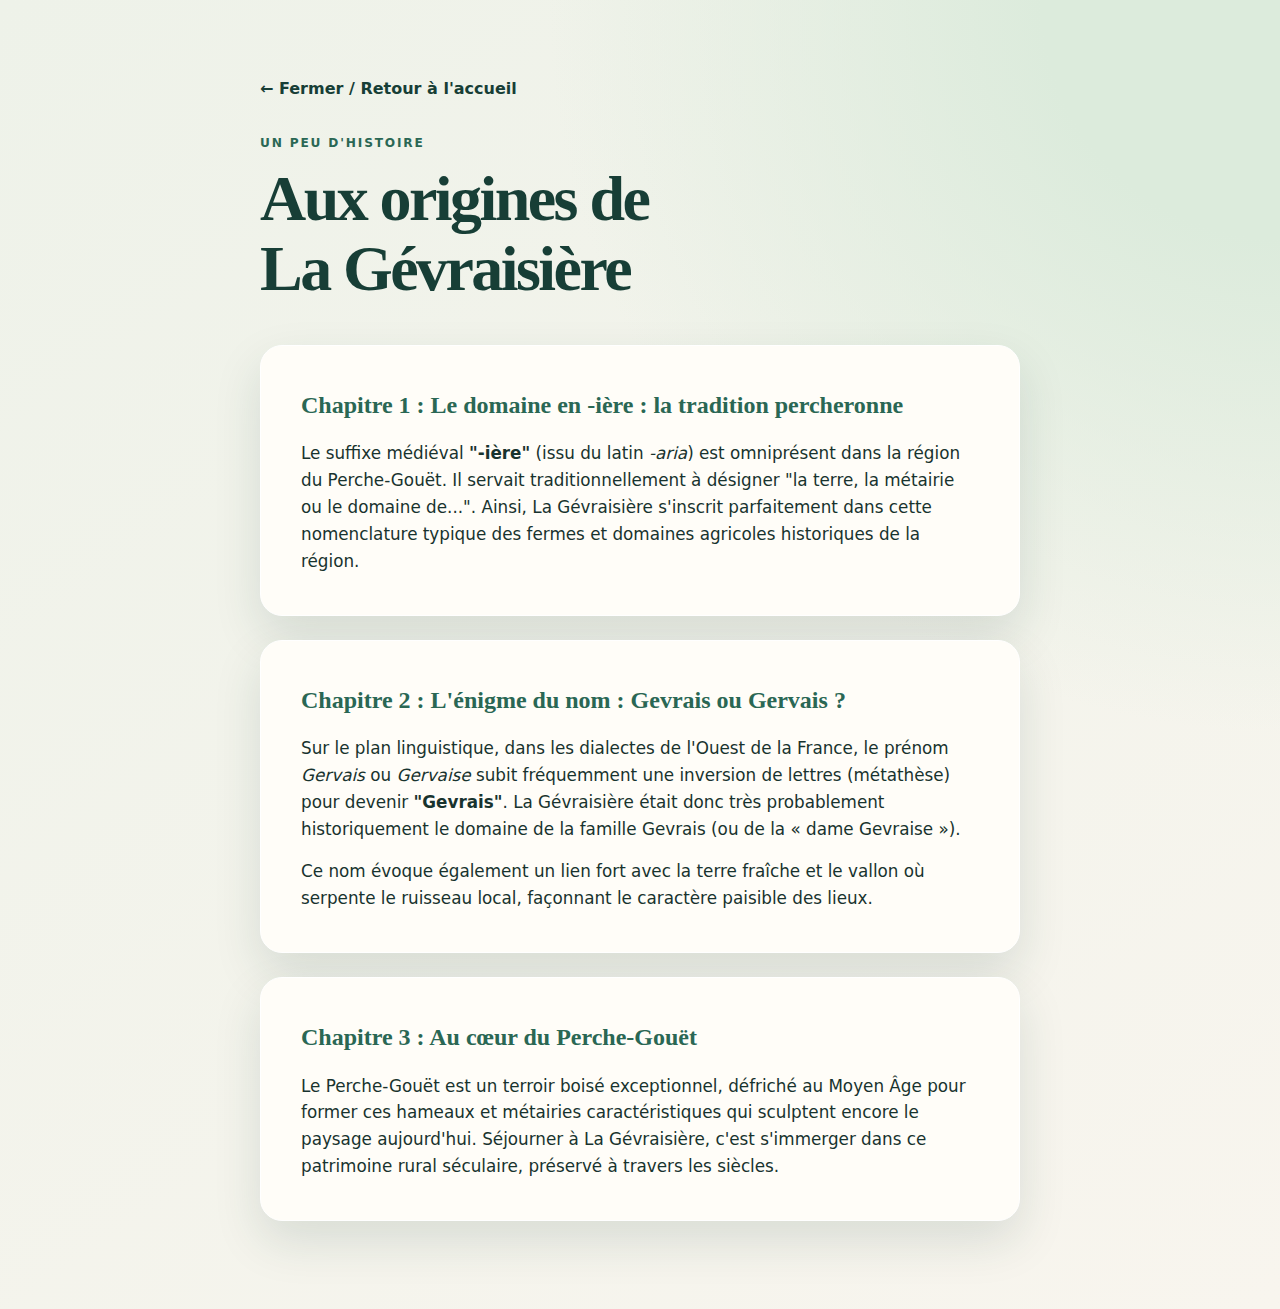
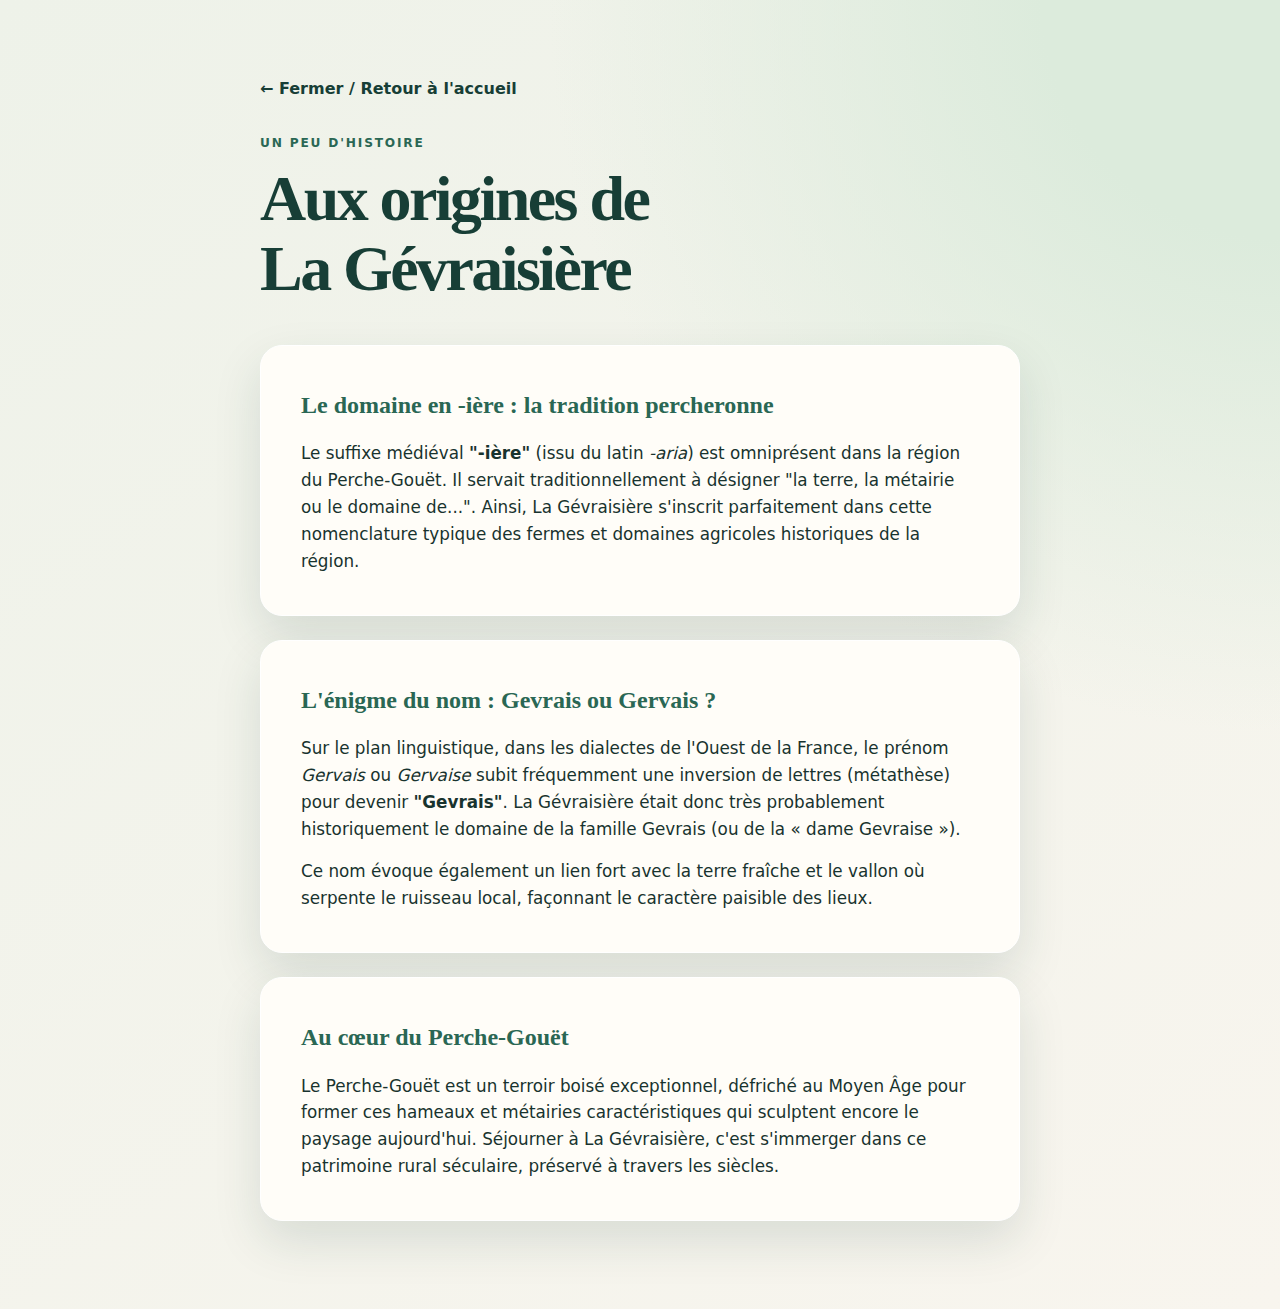
Create 2x2 grid on index and clean history headings
- Move the weather widget to act as a tile inside the `.mode-list` grid on `index.html`.
- Reorder tiles so Map and Weather appear on the first row, Tourism and History on the second row.
- Adjust `garden-weather.js` inline styling so it natively fits inside a `.mode-card` container.
- Restore hardcoded widget styling in `gevraisiere.html` so it maintains its visual appearance in the sidebar.
- Remove "Chapitre X :" mentions from `histoire.html` headings.

Changed region(s): [[0.25, 0.3056, 0.7188, 0.3361], [0.25, 0.5195, 0.6562, 0.55], [0.25, 0.7639, 0.5312, 0.8251]]

diff --git a/garden-weather.js b/garden-weather.js
@@ -34,12 +34,12 @@ function renderWeatherWidget(data) {
   const currentMonth = new Date().getMonth();
   const seasonalAdvice = GARDEN_TASKS[currentMonth];
 
+  // Create mode-heading similar to mode-cards in index.html
   let html = `
-    <div style="background: var(--paper); border: 1px solid var(--forest-light); border-radius: 22px; padding: 23px; margin: 20px 0; box-shadow: var(--shadow);">
-      <h3 style="margin-top: 0; margin-bottom: 15px; color: var(--forest); display: flex; align-items: center; gap: 10px;">
-        <span aria-hidden="true" style="font-size: 1.5rem; background: #e6f0e6; border-radius: 12px; width: 40px; height: 40px; display: flex; justify-content: center; align-items: center;">🌤</span>
-        Météo & Jardin
-      </h3>
+    <div class="mode-heading">
+      <span class="mode-icon" aria-hidden="true">🌤</span>
+      <h2>Météo & Jardin</h2>
+    </div>
   `;
 
   if (data) {
@@ -50,18 +50,18 @@ function renderWeatherWidget(data) {
     const isFreezingExpected = minTemps.some(temp => temp <= 1);
 
     html += `
-      <p style="margin: 0 0 10px; color: var(--ink);"><strong>Actuellement :</strong> ${currentTemp}°C</p>
+      <p>Actuellement : <strong>${currentTemp}°C</strong></p>
     `;
 
     if (isFreezingExpected) {
       html += `
-        <div style="background: #fdf2f2; border: 1px solid #f9d8d8; border-radius: 12px; padding: 15px; margin-bottom: 15px;">
+        <div style="background: #fdf2f2; border: 1px solid #f9d8d8; border-radius: 12px; padding: 12px; margin: 15px 0;">
           <p style="margin: 0; color: #a93232; font-weight: bold; display: flex; align-items: center; gap: 8px;">
             <span aria-hidden="true">❄</span>
-            Alerte Gel : Température ≤ 1°C prévue dans les 72h !
+            Alerte Gel : ≤ 1°C dans les 72h !
           </p>
-          <p style="margin: 8px 0 0; color: #a93232; font-size: 0.9rem;">
-            N'oubliez pas de rentrer les plantes sensibles et de <strong>purger les robinets extérieurs</strong>.
+          <p style="margin: 6px 0 0; color: #a93232; font-size: 0.8rem; line-height: 1.3;">
+            Rentrez les plantes gélives et <strong>purgez les robinets ext.</strong>
           </p>
         </div>
       `;
@@ -69,15 +69,14 @@ function renderWeatherWidget(data) {
   } else {
     // Offline fallback
     html += `
-      <p style="margin: 0 0 15px; color: var(--muted); font-size: 0.9rem;"><em>Météo indisponible (mode hors-ligne)</em></p>
+      <p style="font-size: 0.9rem; margin-top: 15px;"><em>Météo indisponible (hors-ligne)</em></p>
     `;
   }
 
   html += `
-      <div style="background: #f5f8f5; border-radius: 12px; padding: 15px;">
-        <h4 style="margin: 0 0 8px; color: var(--forest-light); font-size: 0.95rem;">🌱 Conseil du mois</h4>
-        <p style="margin: 0; color: var(--ink); font-size: 0.9rem; line-height: 1.4;">${seasonalAdvice}</p>
-      </div>
+    <div style="background: #e4f4e7; border-radius: 12px; padding: 12px; margin-top: 15px;">
+      <h4 style="margin: 0 0 6px; color: #20613f; font-size: 0.85rem;">🌱 Conseil du mois</h4>
+      <p style="margin: 0; color: #20613f; font-size: 0.8rem; line-height: 1.3;">${seasonalAdvice}</p>
     </div>
   `;
 

diff --git a/histoire.html b/histoire.html
@@ -112,14 +112,14 @@
     <h1>Aux origines de<br>La Gévraisière</h1>
 
     <div class="chapter">
-      <h2>Chapitre 1 : Le domaine en -ière : la tradition percheronne</h2>
+      <h2>Le domaine en -ière : la tradition percheronne</h2>
       <p>
         Le suffixe médiéval <strong>"-ière"</strong> (issu du latin <em>-aria</em>) est omniprésent dans la région du Perche-Gouët. Il servait traditionnellement à désigner "la terre, la métairie ou le domaine de...". Ainsi, La Gévraisière s'inscrit parfaitement dans cette nomenclature typique des fermes et domaines agricoles historiques de la région.
       </p>
     </div>
 
     <div class="chapter">
-      <h2>Chapitre 2 : L'énigme du nom : Gevrais ou Gervais ?</h2>
+      <h2>L'énigme du nom : Gevrais ou Gervais ?</h2>
       <p>
         Sur le plan linguistique, dans les dialectes de l'Ouest de la France, le prénom <em>Gervais</em> ou <em>Gervaise</em> subit fréquemment une inversion de lettres (métathèse) pour devenir <strong>"Gevrais"</strong>. La Gévraisière était donc très probablement historiquement le domaine de la famille Gevrais (ou de la « dame Gevraise »).
       </p>
@@ -129,7 +129,7 @@
     </div>
 
     <div class="chapter">
-      <h2>Chapitre 3 : Au cœur du Perche-Gouët</h2>
+      <h2>Au cœur du Perche-Gouët</h2>
       <p>
         Le Perche-Gouët est un terroir boisé exceptionnel, défriché au Moyen Âge pour former ces hameaux et métairies caractéristiques qui sculptent encore le paysage aujourd'hui. Séjourner à La Gévraisière, c'est s'immerger dans ce patrimoine rural séculaire, préservé à travers les siècles.
       </p>

diff --git a/gevraisiere.html b/gevraisiere.html
@@ -34,7 +34,10 @@
       <div class="status"><div class="badge"><strong id="total">0 / 26</strong> points traités</div><div class="progress-track" aria-label="Progression"><i id="bar"></i></div></div>
     </header>
     <div class="content">
-      <aside class="actions" aria-label="Actions de la checklist"><div id="weather-widget"></div><h2>Prêt à partir ?</h2><p id="asideText">Chaque point doit être OK ou N/A pour pouvoir partir.</p><div class="all-done" id="allDone"><span class="flag">🚩</span><strong>Tout est en ordre, même les N/A !</strong><br>Vous pouvez partir l’esprit léger.</div><button class="button primary" id="checkAll">Tout marquer OK</button><button class="button" id="reset">Recommencer la vérification</button></aside>
+      <aside class="actions" aria-label="Actions de la checklist">
+        <div id="weather-widget" style="background: var(--paper); border: 1px solid var(--pine); border-radius: 22px; padding: 23px; margin-bottom: 24px; box-shadow: var(--shadow);"></div>
+        <h2>Prêt à partir ?</h2><p id="asideText">Chaque point doit être OK ou N/A pour pouvoir partir.</p><div class="all-done" id="allDone"><span class="flag">🚩</span><strong>Tout est en ordre, même les N/A !</strong><br>Vous pouvez partir l’esprit léger.</div><button class="button primary" id="checkAll">Tout marquer OK</button><button class="button" id="reset">Recommencer la vérification</button>
+      </aside>
       <main class="checklist" id="checklist"></main>
     </div>
     <footer>La checklist est enregistrée sur cet appareil jusqu’à votre prochaine vérification.</footer>

diff --git a/index.html b/index.html
@@ -175,8 +175,6 @@
       Retrouvez ici toutes les informations utiles pour votre séjour et préparer votre départ en toute sérénité.
     </p>
 
-    <div id="weather-widget"></div>
-
     <section class="mode-list" aria-label="Menu principal">
       <a class="mode-card" href="https://maps.google.com/?q=1,+la+Gevraisi%C3%A8re+28290+CHAPELLE-ROYALE" target="_blank" rel="noopener">
         <div class="mode-heading">
@@ -187,6 +185,8 @@
         <p>1, la Gevraisière<br>28290 CHAPELLE-ROYALE</p>
         <span class="tag">Google Maps</span>
       </a>
+
+      <div id="weather-widget" class="mode-card" style="text-decoration: none;"></div>
 
       <a class="mode-card" href="tourism.html">
         <div class="mode-heading">
